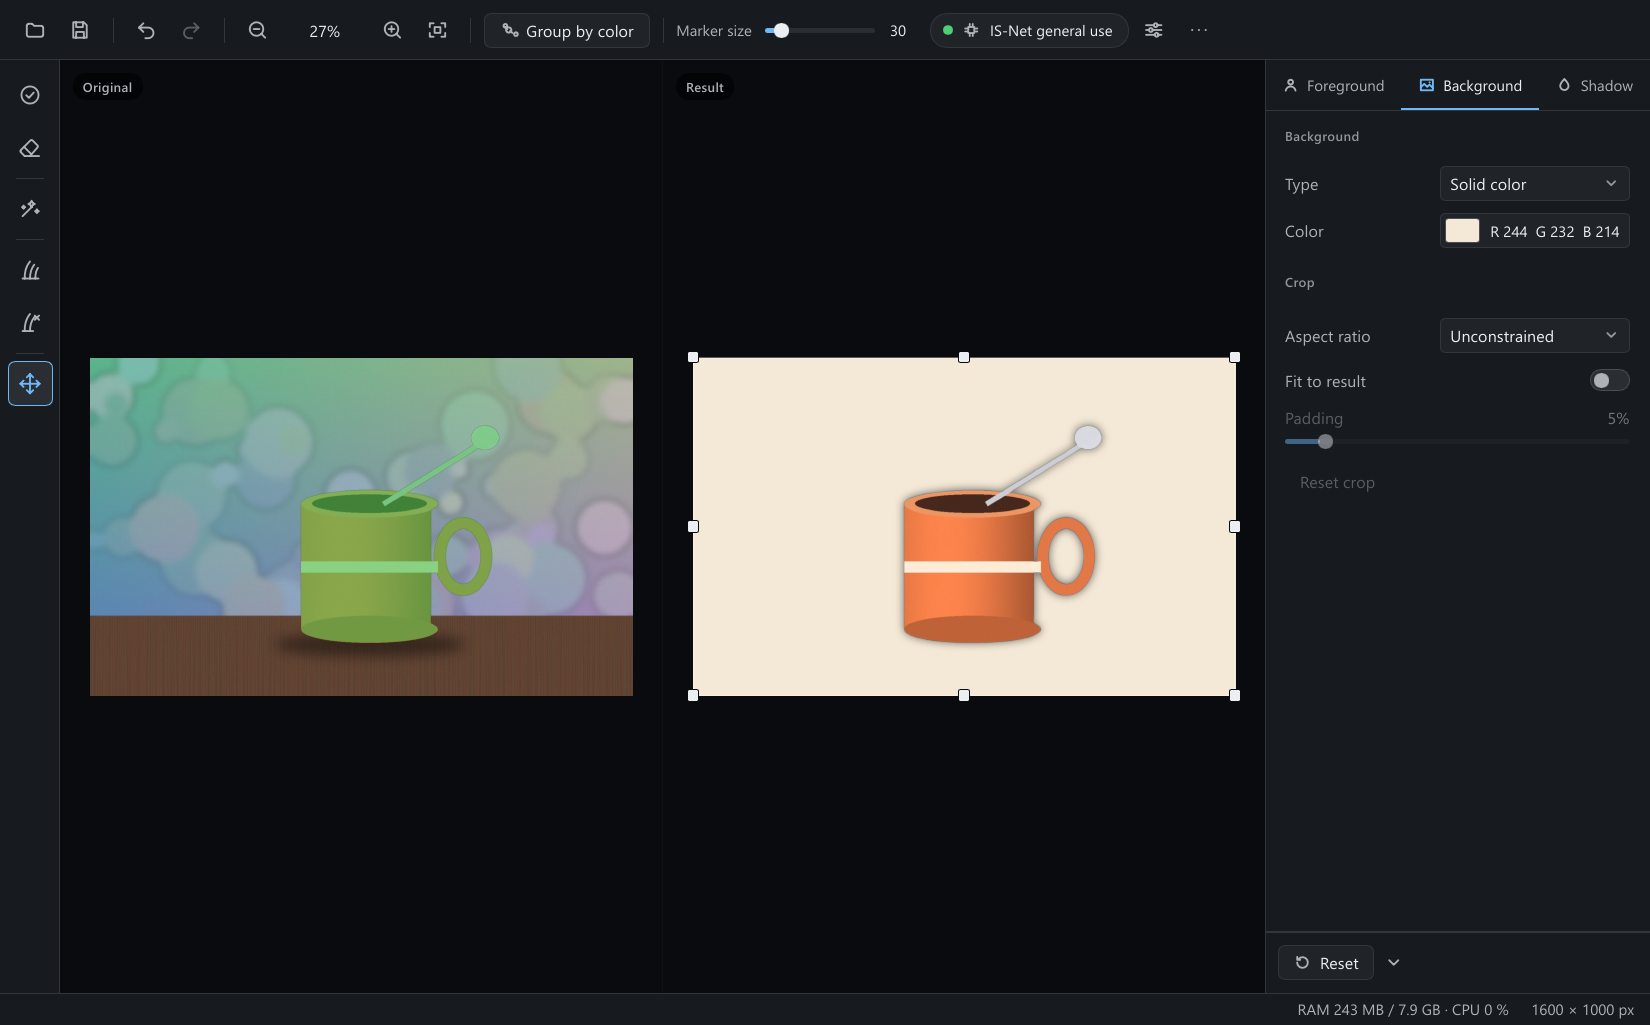
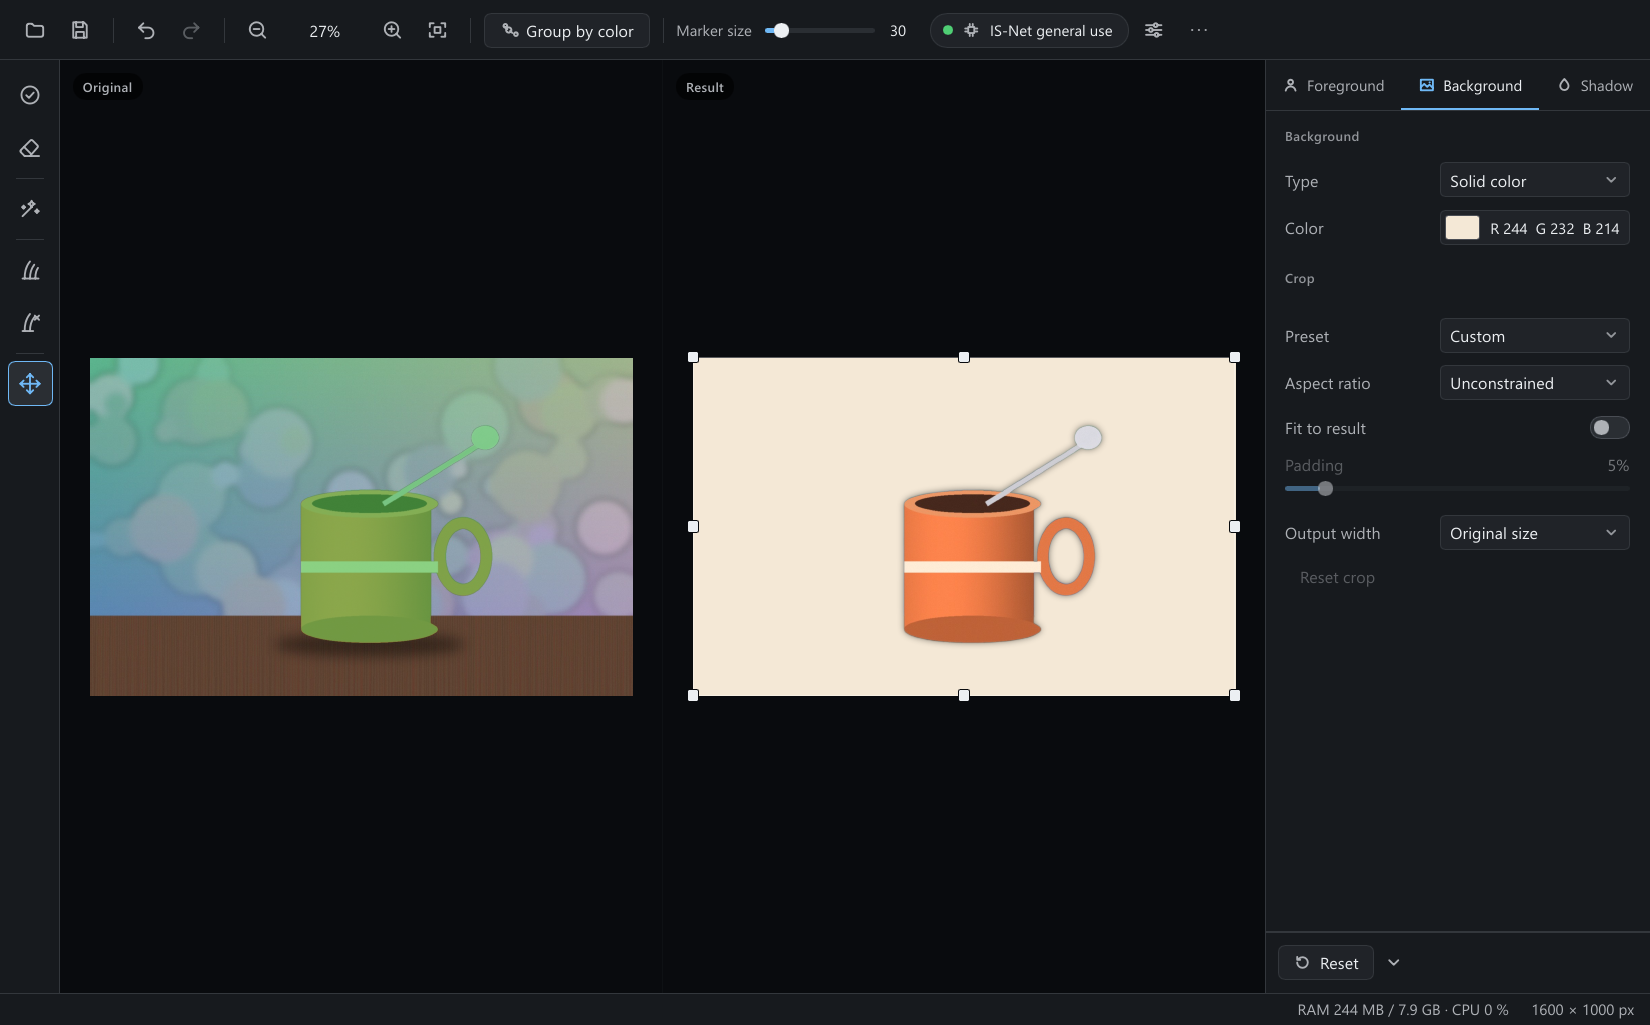
docs(readme): refresh the screenshots and list the downloads for each system

diff --git a/README.fr.md b/README.fr.md
@@ -49,10 +49,10 @@ Voilà. Environ 240 Mo de mémoire avec une photo ouverte (modèle non compté),
 
 ## Obtenir l'appli
 
-Windows 10/11, 64 bits.
+Windows 10/11 (64 bits) est la plateforme testée. La page Releases propose aussi un build Linux x64 et un build macOS Apple Silicon, non testés.
 
-1. Téléchargez le dernier `OpenScissors-…-portable-win-x64.zip` depuis la page Releases et décompressez-le où vous voulez.
-2. Lancez `OpenScissors.exe`.
+1. Téléchargez le dernier zip pour votre système depuis la page Releases (`OpenScissors-…-portable-win-x64.zip`, `…-linux-x64.zip` ou `…-darwin-arm64.zip`) et décompressez-le où vous voulez.
+2. Lancez `OpenScissors.exe` (`OpenScissors` sous Linux et macOS).
 3. Ouvrez une image (le bouton, <kbd>Ctrl</kbd>+<kbd>O</kbd>, glisser-déposer, ou `OpenScissors.exe photo.jpg`).
 
 Au premier lancement, aucun modèle d'IA n'est installé (ils ne sont pas fournis). Cliquez sur la pastille en haut, choisissez-en un, **Télécharger**. Le fichier est vérifié par SHA-256 avant usage.

diff --git a/README.md b/README.md
@@ -49,10 +49,10 @@ So that's what this is. About 240 MB of memory with a photo open (not counting t
 
 ## Get it
 
-Windows 10/11, 64-bit.
+Windows 10/11 (64-bit) is the tested platform. The Releases page also has a Linux x64 build and a macOS Apple Silicon build, untested.
 
-1. Download the latest `OpenScissors-…-portable-win-x64.zip` from the Releases page and unzip it anywhere.
-2. Run `OpenScissors.exe`.
+1. Download the latest zip for your system from the Releases page (`OpenScissors-…-portable-win-x64.zip`, `…-linux-x64.zip` or `…-darwin-arm64.zip`) and unzip it anywhere.
+2. Run `OpenScissors.exe` (`OpenScissors` on Linux and macOS).
 3. Open an image (the button, <kbd>Ctrl</kbd>+<kbd>O</kbd>, drag and drop, or `OpenScissors.exe photo.jpg`).
 
 The first time, no AI model is installed (they are not bundled). Click the chip at the top, pick one, press **Download**. The file is checked against a SHA-256 before it is used.
